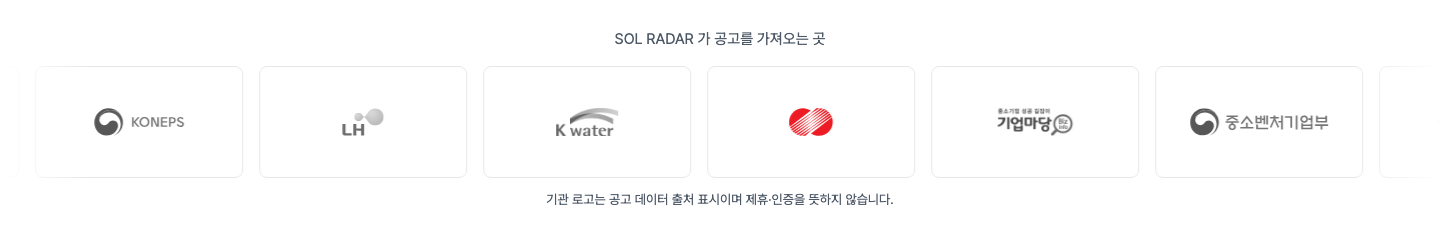
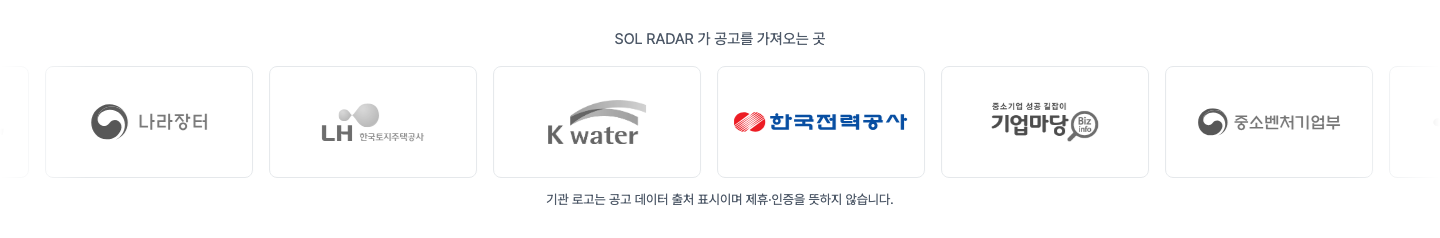
style(web): 출처 로고 국문 시그니처·크기 맞춤
- 나라장터·LH·한국전력공사를 같은 CI 묶음의 마크+국문 이름 로고로
- 출처 로고 크기를 높이 하나 대신 같은 넓이로 맞춘다(카드 안 폭 이내)

diff --git a/web/components/landing/showcase-marquees.tsx b/web/components/landing/showcase-marquees.tsx
@@ -1,6 +1,10 @@
 import Image from "next/image";
 import { Marquee } from "@/components/landing/marquee";
-import { DATA_SOURCES, SOLIDEO_SERVICES } from "@/components/landing/showcase-data";
+import {
+  DATA_SOURCES,
+  SOLIDEO_SERVICES,
+  type DataSource,
+} from "@/components/landing/showcase-data";
 
 // 히어로 아래 흐르는 줄 둘.
 // unoptimized: Vercel services 배포에서는 /_next/image 가 404 라 public 원본을 바로 쓴다(679dc3c8).
@@ -30,6 +34,15 @@ export function ServicesMarquee() {
   );
 }
 
+// 출처 로고는 가로세로 비율이 제각각이라(LH 2.6:1 ~ 한국전력공사 8.4:1) 높이 하나로 맞추면 좁은 로고가 작아 보인다.
+// 넓이(가로×세로)를 같게 맞춰 눈으로 비슷한 크기로 보이게 하고, 카드 안 폭(176px)은 넘지 않게 한다.
+const LOGO_AREA = 4200;
+const LOGO_MAX_WIDTH = 176;
+const logoHeight = ({ width, height }: DataSource["logo"]) => {
+  const ratio = width / height;
+  return Math.round(Math.min(Math.sqrt(LOGO_AREA / ratio), LOGO_MAX_WIDTH / ratio));
+};
+
 // 출처 카드도 서비스 카드처럼 로고만 가운데에 둔다(2026-10-28 사용자 요청). 이름은 그림 alt 로 읽힌다.
 // 연결 상태는 문서로 관리하고 화면에는 표시하지 않는다. 로고는 회색조이고 마우스를 올리면 원래 색이다.
 export function SourcesMarquee() {
@@ -52,7 +65,8 @@ export function SourcesMarquee() {
             height={source.logo.height}
             unoptimized
             loading="eager"
-            className="h-7 w-auto max-w-44 object-contain opacity-80 grayscale transition-[filter,opacity] duration-200 group-hover:opacity-100 group-hover:grayscale-0"
+            style={{ height: logoHeight(source.logo) }}
+            className="w-auto object-contain opacity-80 grayscale transition-[filter,opacity] duration-200 group-hover:opacity-100 group-hover:grayscale-0"
           />
         </li>
       ))}

diff --git a/web/components/landing/showcase-data.ts b/web/components/landing/showcase-data.ts
@@ -60,14 +60,16 @@ export const SOLIDEO_SERVICES: readonly SolideoService[] = [
 // 로고는 각 기관 공식 CI 안내 페이지의 파일에서 로고 부분만 꺼냈다(그림은 바꾸지 않는다).
 // CI 안내 파일을 못 구한 기업마당·중소벤처기업부·국방전자조달은 공식 누리집에 게시된 로고 파일 그대로다
 // (기업마당은 누리집 공유 그림에서 흰 여백만 잘랐다, 중소벤처기업부·국방전자조달은 머리말 로고).
+// 카드에 이름 글자가 없어 마크만으로는 기관이 읽히지 않는 나라장터·LH·한국전력공사는
+// 같은 CI 묶음의 "마크 + 국문 기관 이름" 시그니처다(2026-10-28 사용자 결정).
 export const DATA_SOURCES: readonly DataSource[] = [
   {
     name: "나라장터(조달청)",
-    logo: { src: "/landing/sources/koneps.svg", width: 304, height: 95 },
+    logo: { src: "/landing/sources/koneps.svg", width: 307, height: 95 },
   },
   {
     name: "한국토지주택공사",
-    logo: { src: "/landing/sources/lh.svg", width: 35, height: 24 },
+    logo: { src: "/landing/sources/lh.svg", width: 247, height: 96 },
   },
   {
     name: "한국수자원공사",
@@ -75,7 +77,7 @@ export const DATA_SOURCES: readonly DataSource[] = [
   },
   {
     name: "한국전력공사",
-    logo: { src: "/landing/sources/kepco.svg", width: 171, height: 109 },
+    logo: { src: "/landing/sources/kepco.svg", width: 295, height: 35 },
   },
   { name: "기업마당", logo: { src: "/landing/sources/bizinfo.png", width: 344, height: 128 } },
   { name: "중소벤처기업부", logo: { src: "/landing/sources/mss.svg", width: 206, height: 42 } },
